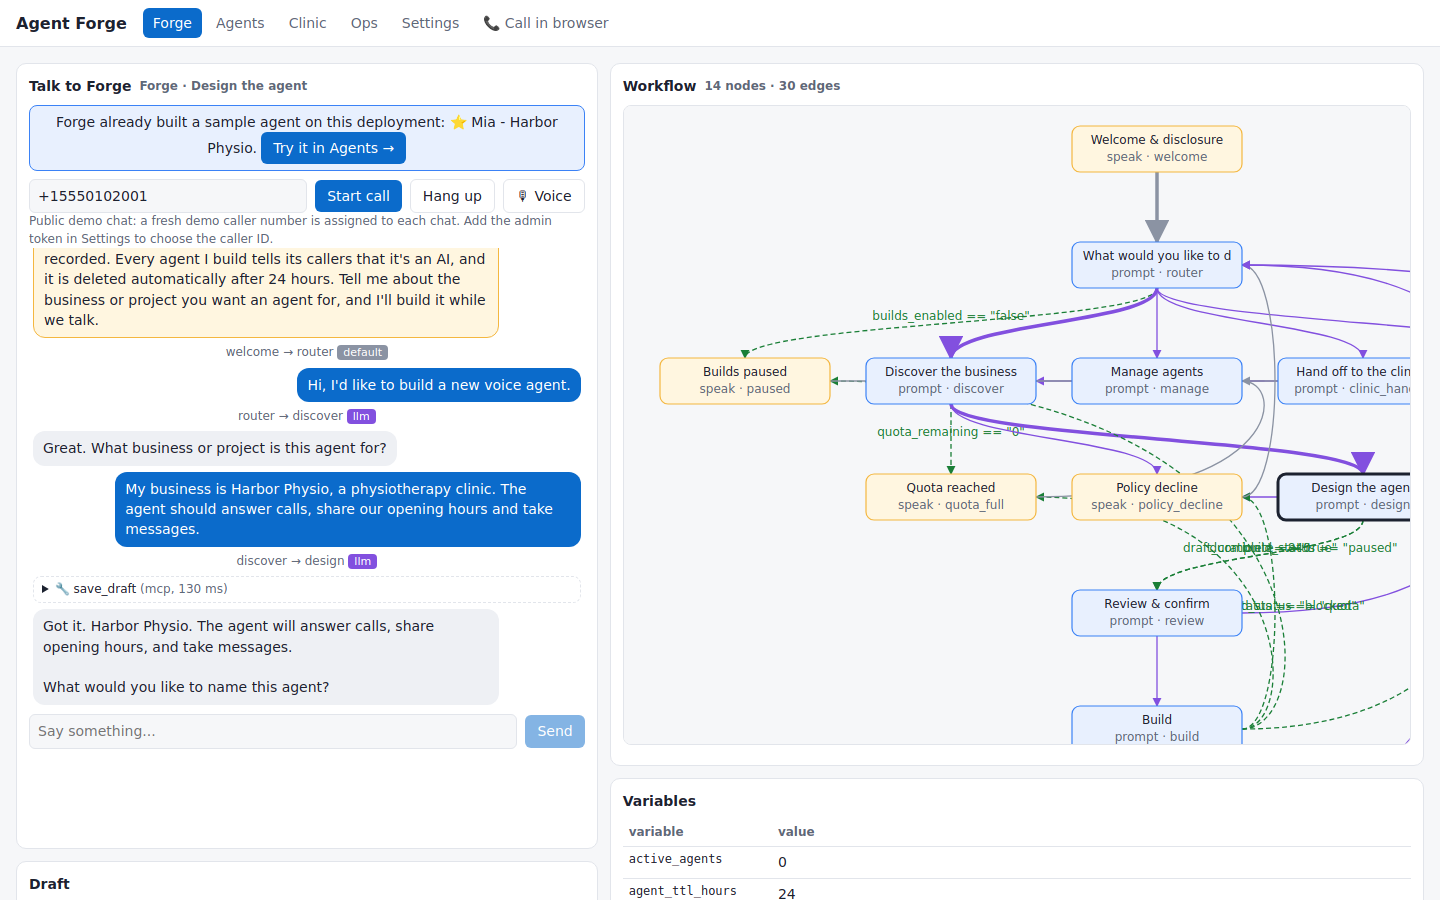
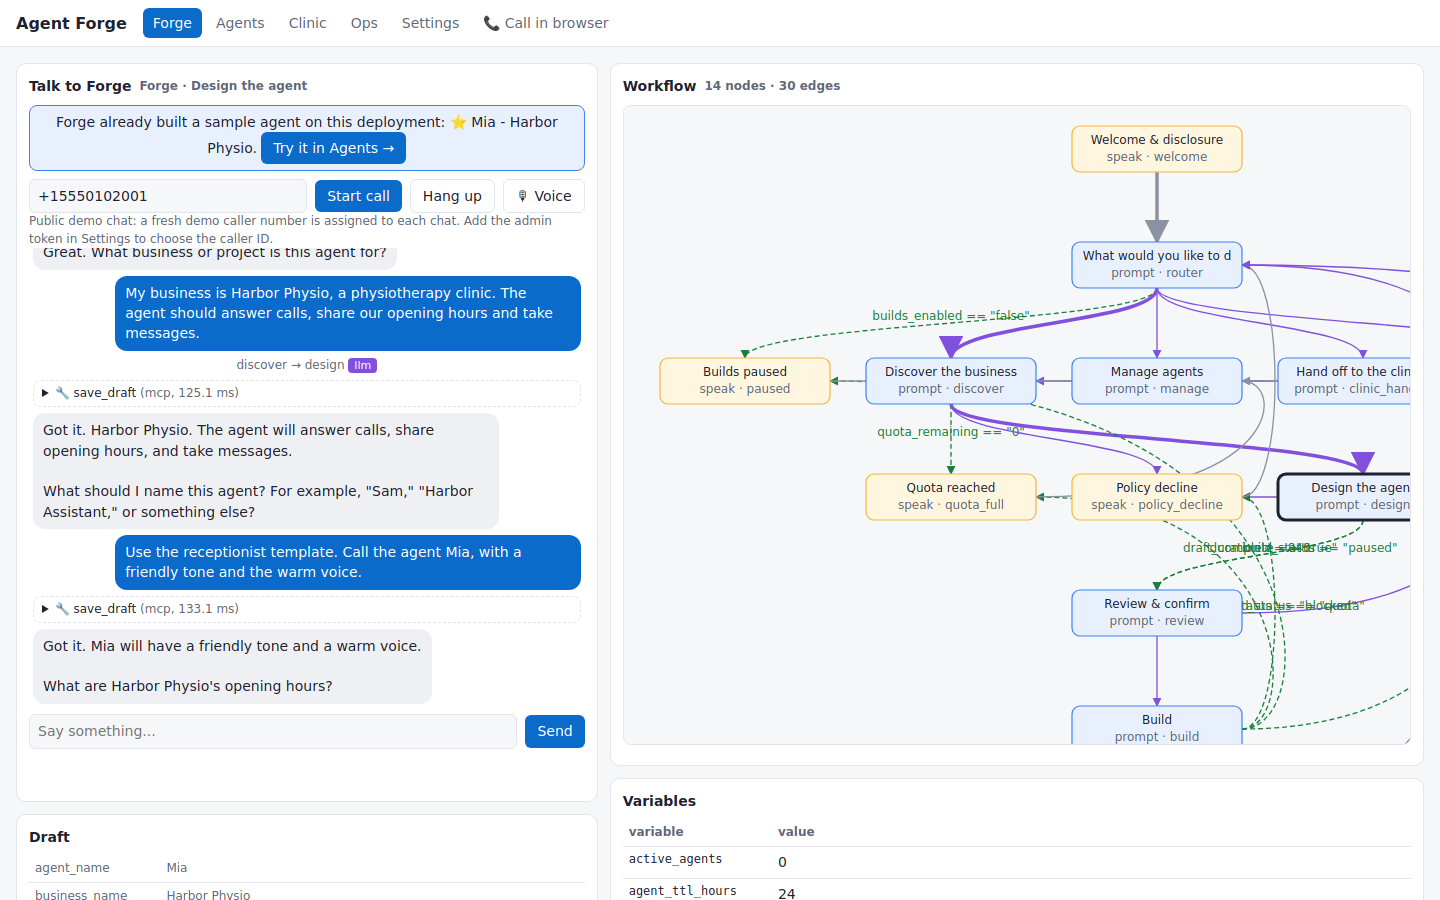
Add screenshots

Changed region(s): [[0.0, 0.2489, 0.4062, 0.7778], [0.0, 0.9022, 0.1875, 1.0], [0.3438, 0.7778, 0.4062, 0.84]]

diff --git a/docs/HOW_IT_WORKS.md b/docs/HOW_IT_WORKS.md
@@ -61,7 +61,7 @@ sequenceDiagram
   end
   S-->>A: callCount, hasDraft, activeAgents, unread…
   A-->>T: {"dynamic_variables": {welcome_line, quota_remaining, builds_enabled, has_draft, …}}
-  Note over T: welcome speak node reads {{welcome_line}};<br/>router's comparison edges read builds_enabled / quota_remaining
+  Note over T: welcome speak node reads welcome_line,<br/>router's comparison edges read builds_enabled and quota_remaining
 ```
 
 If KV or the actor fails, the webhook still answers 200 with defaults and `degraded=true`. The call carries on, and
@@ -155,7 +155,7 @@ sequenceDiagram
   participant Pat as ClinicPatient (per phone)
   P->>C: "My knee hurts when I run"
   C->>A: triage_symptoms (webhook)
-  Note over A: rules decide urgency (crisis > emergency > urgent > routine);<br/>an LLM may only pick a specialty from a closed enum
+  Note over A: rules decide urgency (crisis, emergency, urgent, routine),<br/>an LLM may only pick a specialty from a closed enum
   A-->>C: triage_urgency=routine, matched_specialty=orthopedics
   Note over C: comparison edge triage_urgency == routine → schedule<br/>(== emergency → 911 speak node)
   C->>A: check_availability (MCP) → generate slots − Sch.taken()
